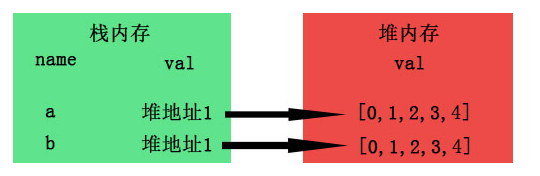
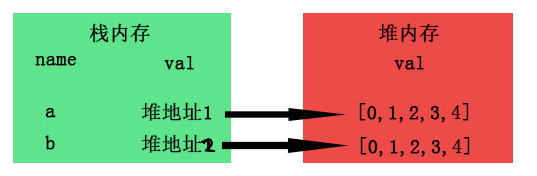
.

diff --git a/04-JavaScript库/03-数据类型/03-数据类型.md b/04-JavaScript库/03-数据类型/03-数据类型.md
@@ -6,9 +6,10 @@
 
 - **引用类型**（堆内存）：Object 对象、Array 数组、Function 函数......
 
-> 1. 引用类型都是保存到堆内存中，栈内存保存了值类型或引用类型的内存地址（指针）。变量只起到访问作用而已
-> 2. 栈内存空间固定，堆内存空间固定可以变化
-> 3. 堆内存 2 种拷贝方式可以手动设置
+> **重点：**
+>
+> 1. 栈内存中保存了**变量名、值类型、堆地址（指针）**，大小固定；堆内存中保存了**引用类型**，大小不固定
+> 2. 值类型复制，会开辟新的栈内存；引用类型复制分为浅拷贝（默认）与深拷贝
 
 ![栈与堆](img/栈与堆.png)
 
@@ -121,12 +122,12 @@
 
 ## 5、浅拷贝与深拷贝
 
-> 深拷贝和浅拷贝一般是针对引用类型而言
+> 浅拷贝和深拷贝一般是针对引用类型
 
-- 浅拷贝：**不开辟**新的堆内存，指向同一引用类型
+- 浅拷贝：不开辟新的堆内存，复制的是堆地址
   ![浅拷贝](img/浅拷贝.png)
 
-- 深拷贝：**开辟**新的堆内存，指向不同引用类型
+- 深拷贝：开辟新的堆内存
   ![浅拷贝](img/深拷贝.png)
 
 ## 6、JS 垃圾收集和内存管理机制（了解下即可）
